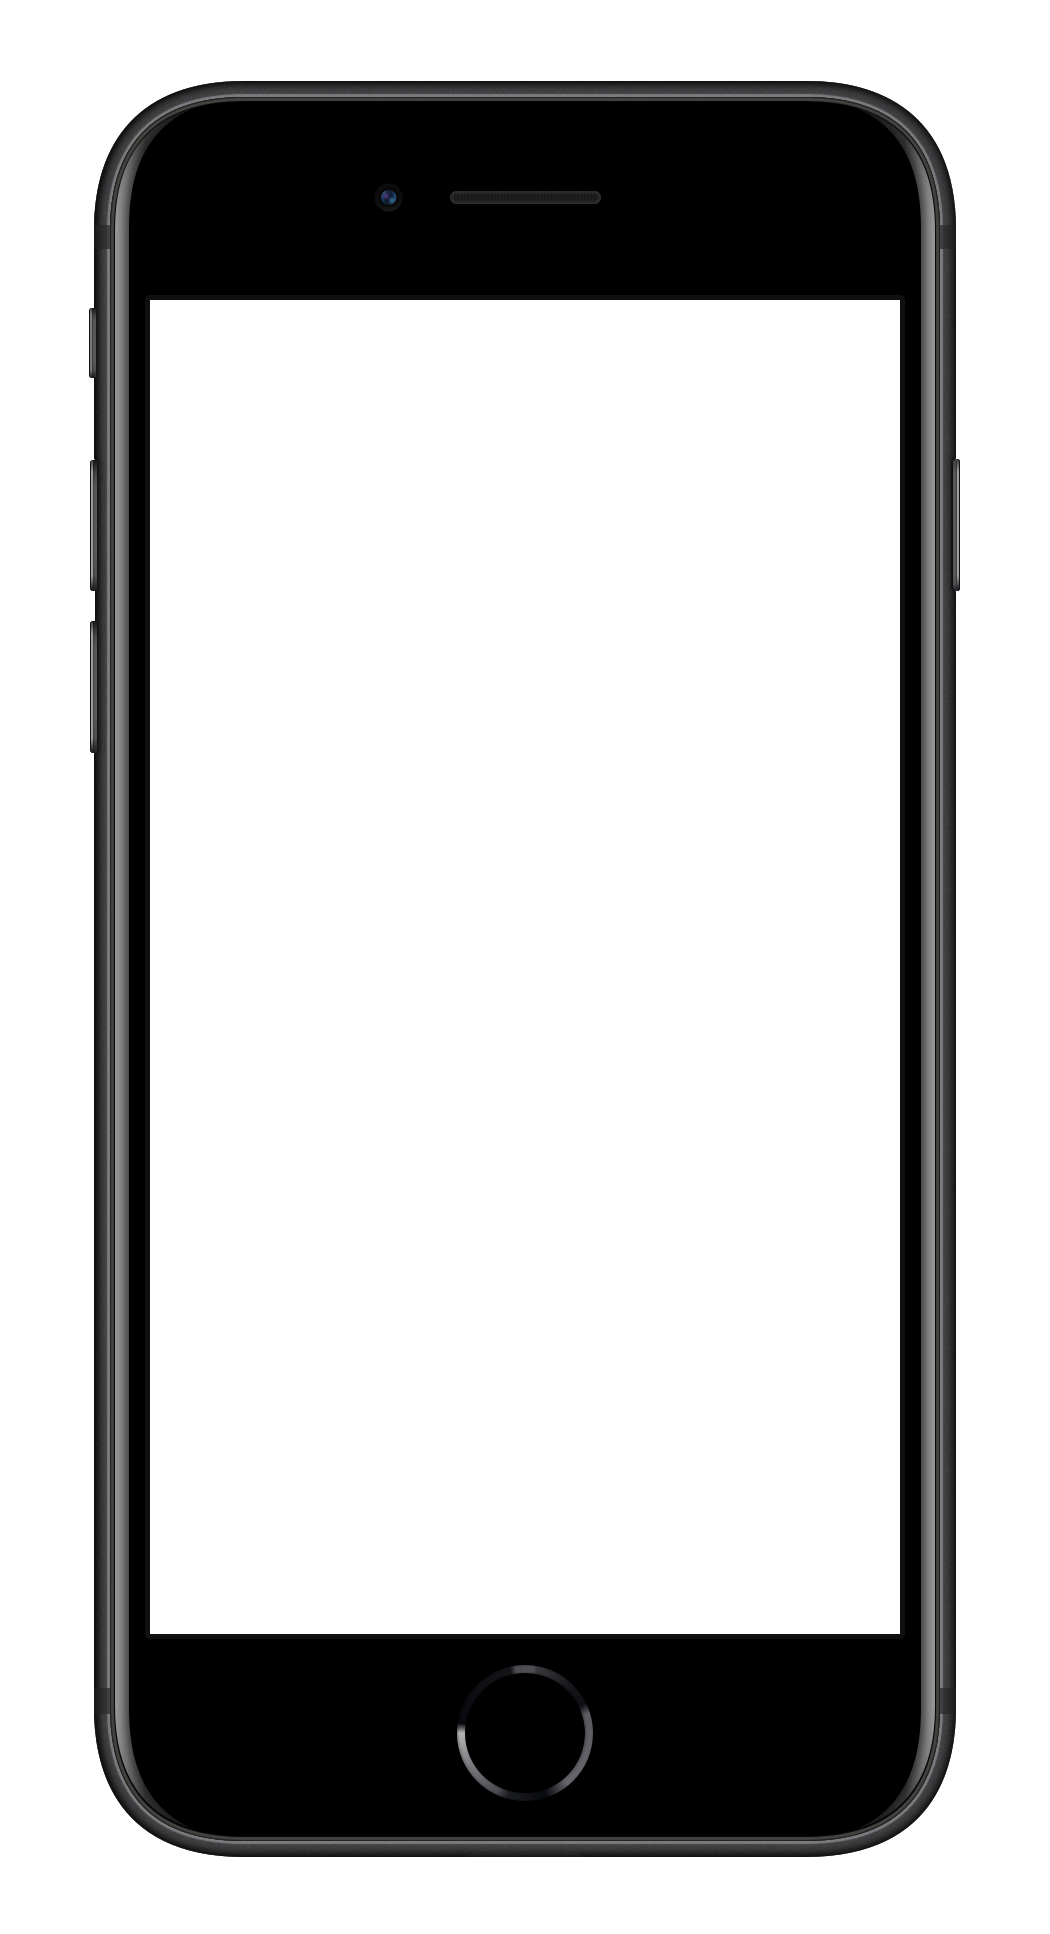
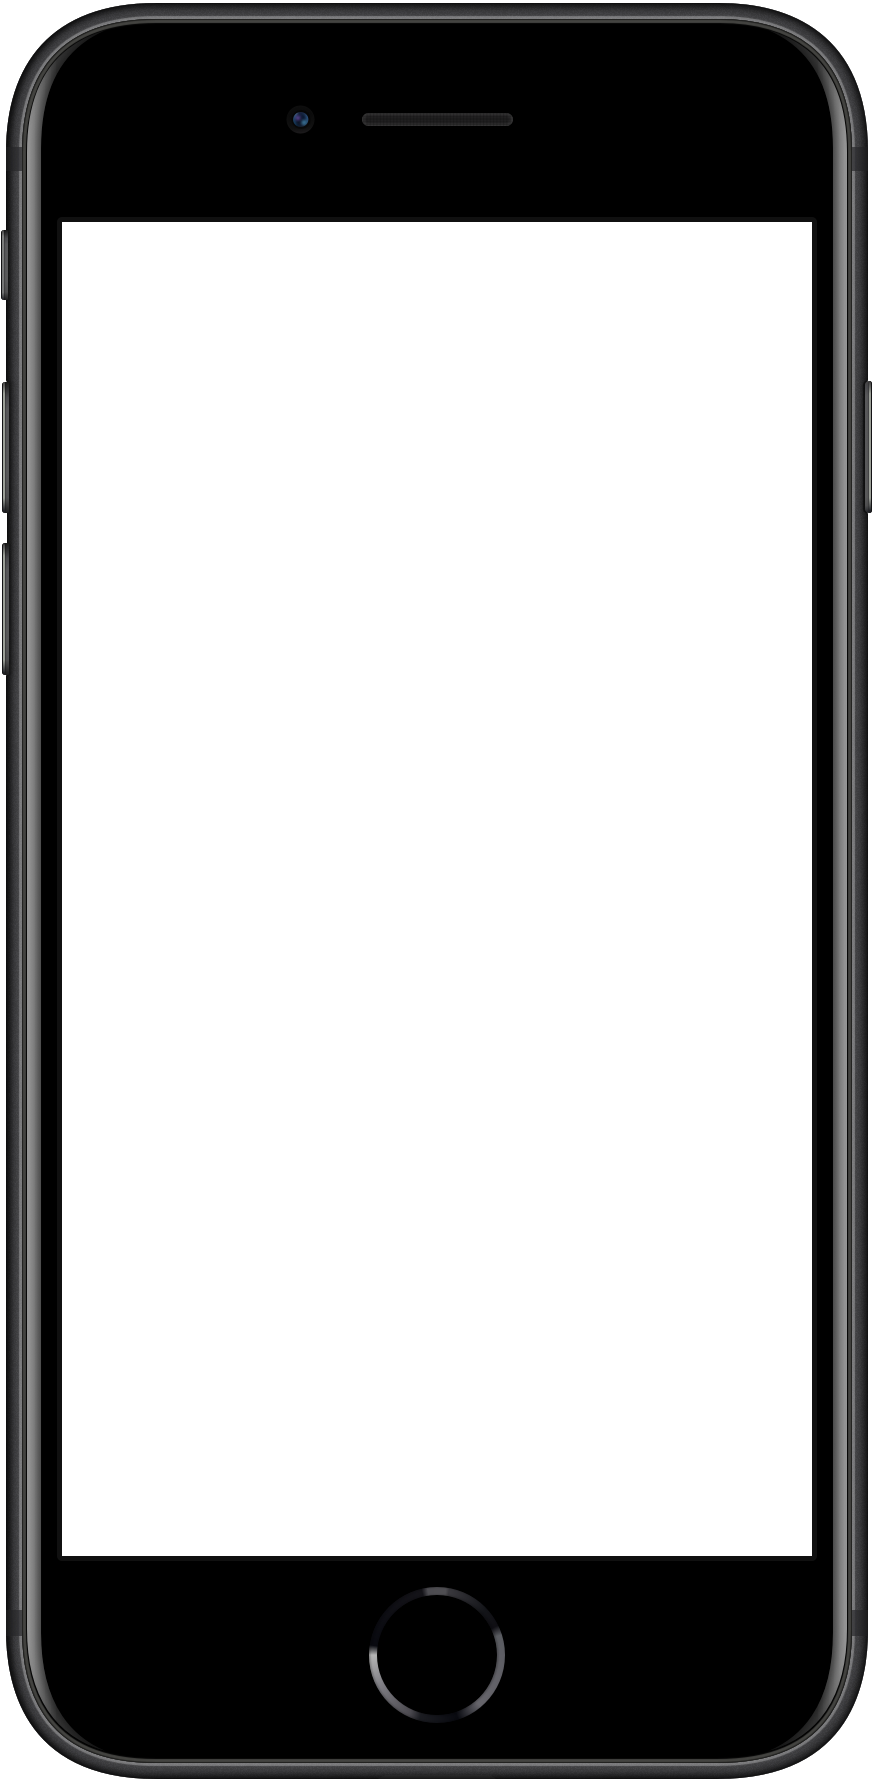
iphone se (3. generation)

diff --git a/packages/vscode-extension/src/webview/utilities/consts.ts b/packages/vscode-extension/src/webview/utilities/consts.ts
@@ -26,10 +26,10 @@ export const SupportedDevices = {
     platform: Platform.IOS,
     screenWidth: 750,
     screenHeight: 1334,
-    frameWidth: 870,
-    frameHeight: 1774,
-    offsetX: 55,
-    offsetY: 55,
+    frameWidth: 874,
+    frameHeight: 1780,
+    offsetX: 62,
+    offsetY: 222,
     frameImage: iphoneSE,
     maskImage: iphoneSEmask,
   },
